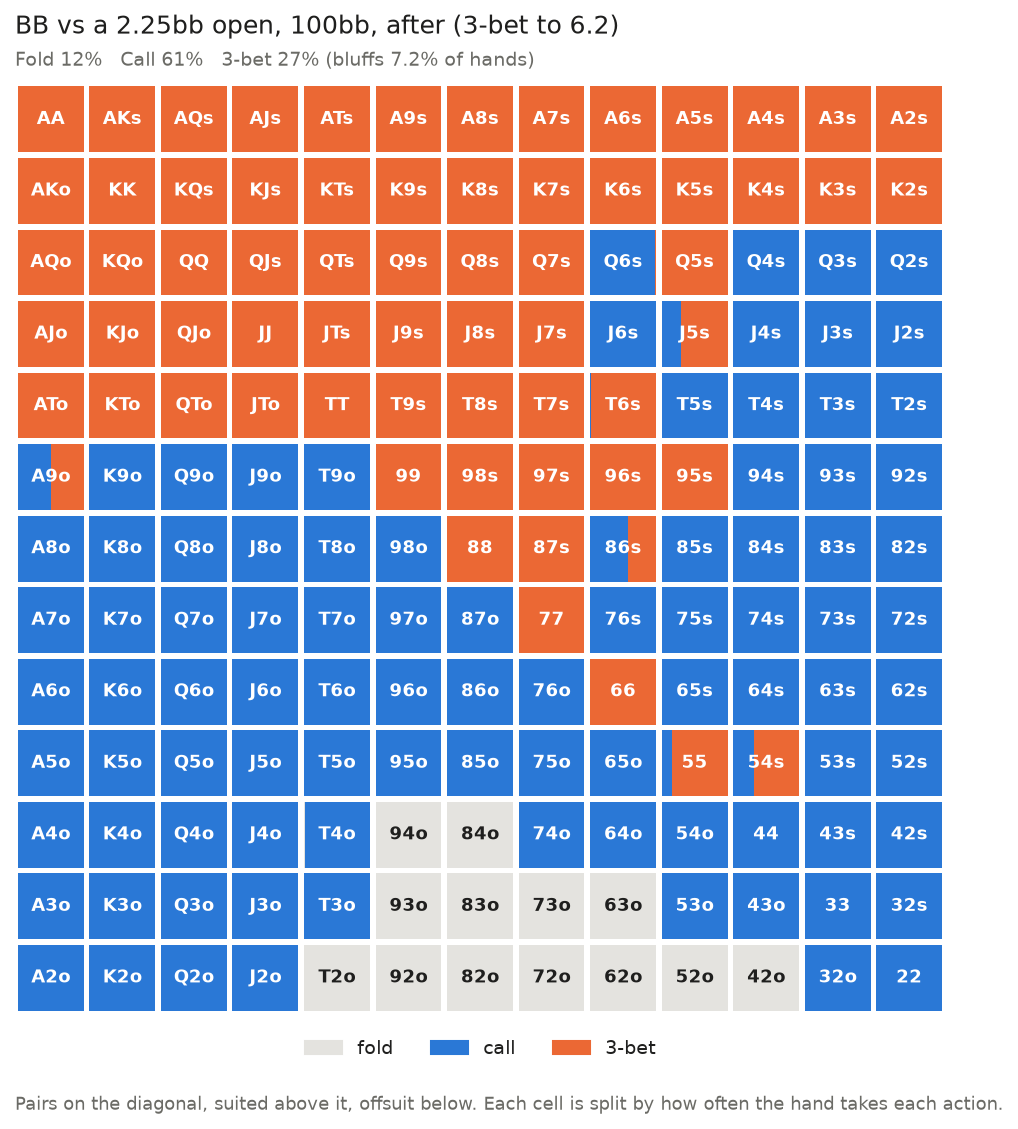
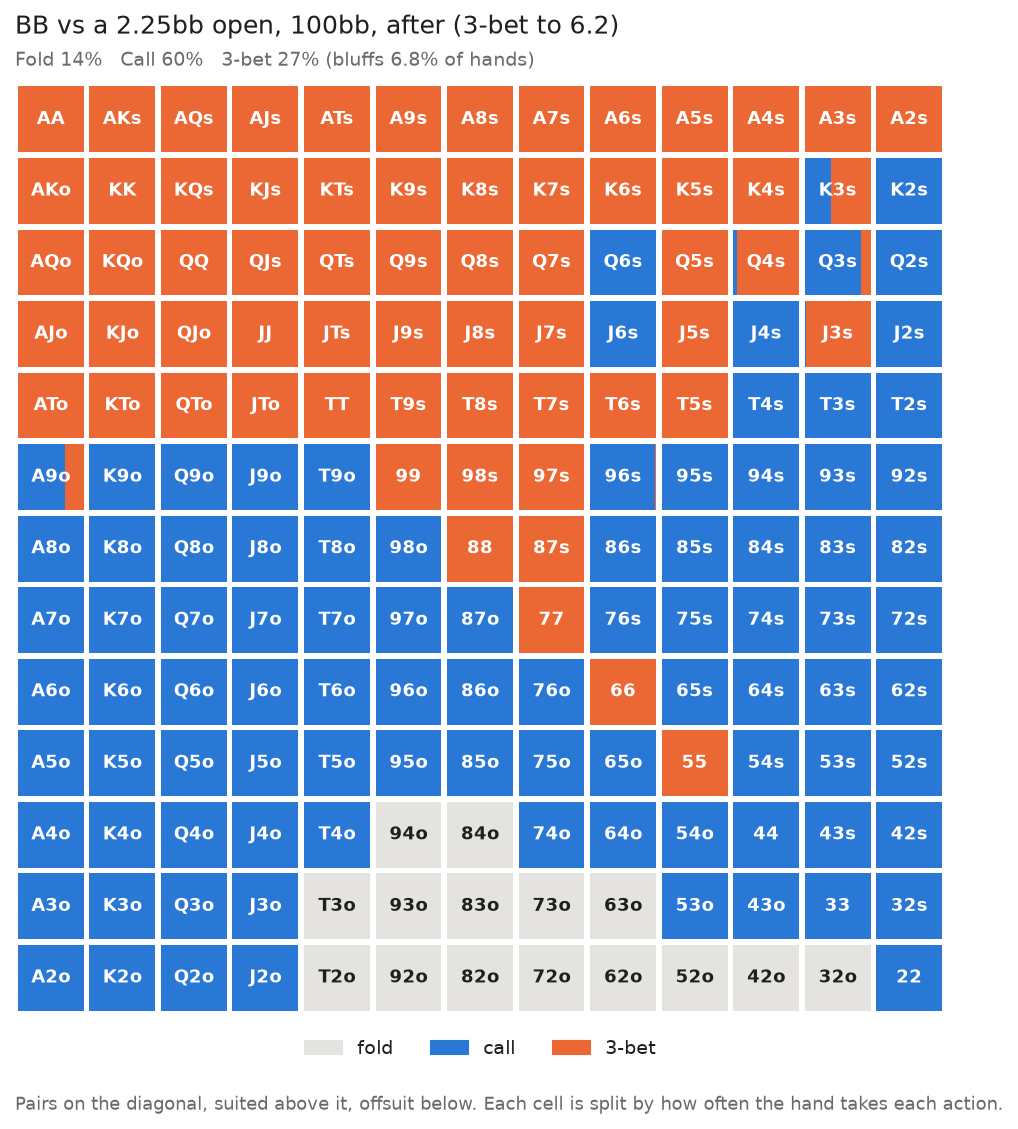
Experiment 24: run the shape loop to round 8 (settled)

diff --git a/README.md b/README.md
@@ -1704,41 +1704,46 @@ called pot (BTN hand i, BB hand j) = formula[i, j] + pot x (a[i] - b[j])
 (bb per called pot, vs the formula; `adjustment_btn.png` for the BTN)
 
 * **Suited, connected hands do better:**
-  * **54s, 65s, 98s, 87s, J9s and JTo:** +0.5 to +0.65bb for the BB.
-  * **QJs, JTs, 65s, 75s:** +0.5 to +0.6bb for the BTN.
+  * **54s, 64s, 65s, 53s and 76s:** +0.5 to +0.65bb for the BB.
+  * **T9s, 65s, 76s:** about +0.5bb for the BTN.
   * **Premium pairs most of all:** AA +1.6bb for the BTN.
-* **Offsuit aces and kings do worse:** A2o–A7o and K2o–K5o lose 0.2–0.6bb. They make top pair with a
+* **Offsuit aces and kings do worse:** A2o–A9o and K2o–K6o lose 0.25–0.6bb. They make top pair with a
   weak kicker and get outplayed.
 * **Small pairs do worse:** 22 −0.5bb for the BTN, −0.25bb for the BB. They rarely improve and face
   overcards on most flops.
 
 ### The new ranges (shape version)
 
-| | Before (formula only) | After 4 rounds |
+| | Before (formula only) | After 8 rounds |
 |---|---|---|
-| BTN opens | 68% | **60%** |
-| BB fold / call / 3-bet | 10 / 69 / 21% | 12 / 61 / **27%** |
-| BB 3-bet size | 7.3bb | 6.2bb |
-| **BB 3-bet bluffs** (< 50% equity vs the open) | **0.5%** (22 only) | **7.2%** |
-| BTN folds to a 3-bet | 42% | 37% |
+| BTN opens | 68% | **59%** |
+| BB fold / call / 3-bet | 10 / 69 / 21% | 14 / 60 / **27%** |
+| BB 3-bet size | 7.3bb | 6.2bb (6.75bb is about as good) |
+| **BB 3-bet bluffs** (< 50% equity vs the open) | **0.5%** (22 only) | **6.8%** |
+| BTN folds to a 3-bet | 42% | 34% |
+| BB net per called pot (whole-hand model) | −0.86 | −1.03 |
 
 ![BB range after](output/realization_loop/shape/bb_range_after.png)
 
 * **The BB now 3-bet bluffs, with the hands that play well postflop:**
-  * **every suited king**
-  * **most suited queens and jacks** (Q7s+, J7s+, plus Q5s and J5s)
-  * **suited connectors and one-gappers** (T6s+, 95s+, 87s, 54s)
+  * **suited kings** (K3s+)
+  * **most suited queens and jacks** (Q7s+, J7s+, plus Q4s–Q5s, J3s, J5s)
+  * **suited connectors and one-gappers** (T5s+, 97s+, 87s)
   * **JTo, QTo and QJo**
 
   This is the shape of a typical solver 3-bet range. Before, the BB 3-bet only hands with good equity
   (0.5% bluffs, experiment 15).
 * **The BB stops 3-betting hands that play badly postflop:** A6o–A8o and 22–44 now call.
-* **The BTN opens fewer hands (68% → 60%):** it drops weak offsuit hands (K2o–K4o, Q2o–Q5o, J2o–J6o), A2o,
-  22 and 33. It adds suited connectors and gappers (32s–85s) and connected offsuit hands (65o–96o).
+* **The BTN opens fewer hands (68% → 59%):** it drops weak offsuit hands (K2o–K4o, Q2o–Q5o, J2o–J6o), A2o
+  and 22. It adds suited connectors and gappers (32s–85s) and connected offsuit hands (65o–87o).
+* **The BB folds only offsuit trash** (T2o–T3o, 9x–3x offsuit).
 
-**Convergence:** the BB's main action changes for 12% of hands in round 1, then 8%, 5% and 4%. The BTN's
-opening range was still shrinking 2–3 points per round at the end, so these ranges are close but not a
-fixed point.
+**Convergence:**
+* **The totals stopped moving after round 5.** Over rounds 5–8 the BTN opens 59–61%, the BB folds 12–14%,
+  calls 60–62% and 3-bets 26–28%. Bluffs stay at 6.8–7.3% and the BB nets −1.01 to −1.04bb per called pot.
+* **Individual hands still switch** (3–5% of the BB's hands per round, about the same share of the BTN's
+  range). That's the noise floor of the 1.5M-hand evaluation on near-indifferent hands, not a trend.
+* **The 3-bet size alternates** between 6.2 and 6.75bb, which are nearly tied.
 
 ### The absolute version doesn't settle
 
@@ -1752,8 +1757,8 @@ suited connectors, 98s–54s. Stronger damping or many more rounds would be need
 * 3-bet pots reuse the single-raised-pot adjustments scaled to their pot; the whole-hand model doesn't
   play 3-bet pots.
 * Only the 2.25bb / 100bb spot was run.
-* One seed per model. The shape version's BTN EV drifts down (−20 → −104 mbb per hand), partly from the
-  bigger, more effective BB 3-bet range.
+* One seed per model. The shape version's BTN EV in the preflop model falls from −20 to about −110 mbb per
+  hand (stable over rounds 5–8), partly from the bigger, more effective BB 3-bet range.
 
 Data: `shape/rounds.csv`, `shape/by_hand.csv`, `shape/range_changes.csv` (same for `absolute/`).
 
@@ -1763,6 +1768,6 @@ Data: `shape/rounds.csv`, `shape/by_hand.csv`, `shape/range_changes.csv` (same f
    (`ace_air`, experiment 23); the remaining air gap vs the solver would need card-level features.
 2. **Learn the opponent model from data:** estimate a real opponent's donk frequencies by hand from hand
    histories, instead of picking from three fixed profiles.
-3. **Extend experiment 24:** more rounds to a true fixed point, other open sizes and stacks, limped pots,
-   and a stable absolute version (stronger damping).
+3. **Extend experiment 24:** other open sizes and stacks, limped pots, and a stable absolute version
+   (stronger damping).
 4. **Multiway** play.
